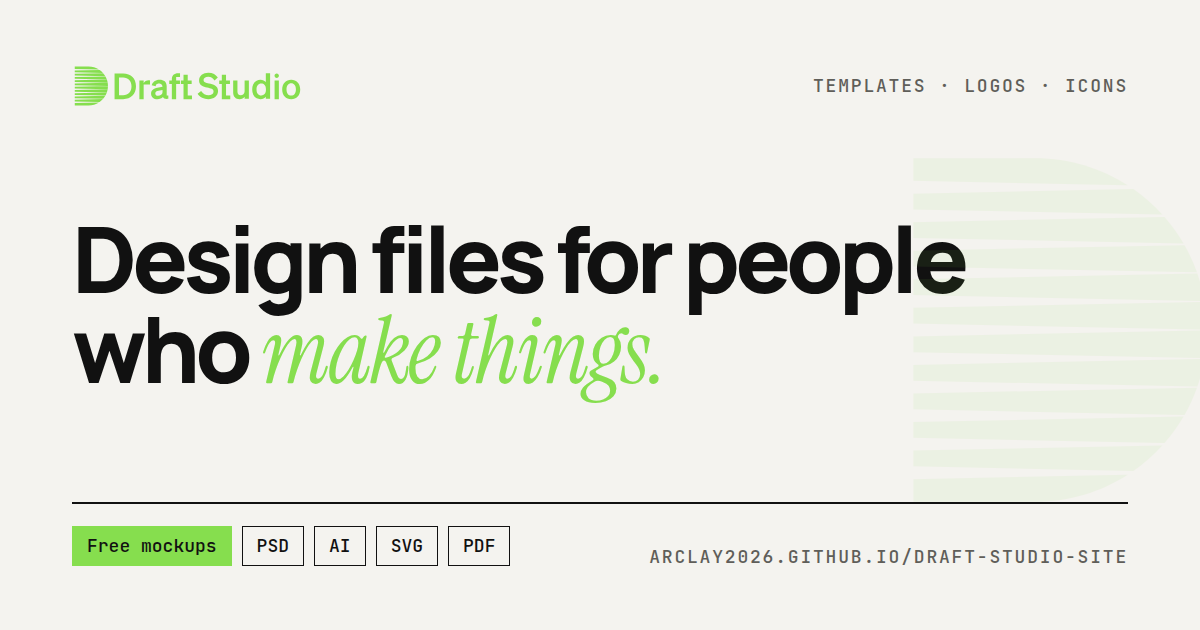
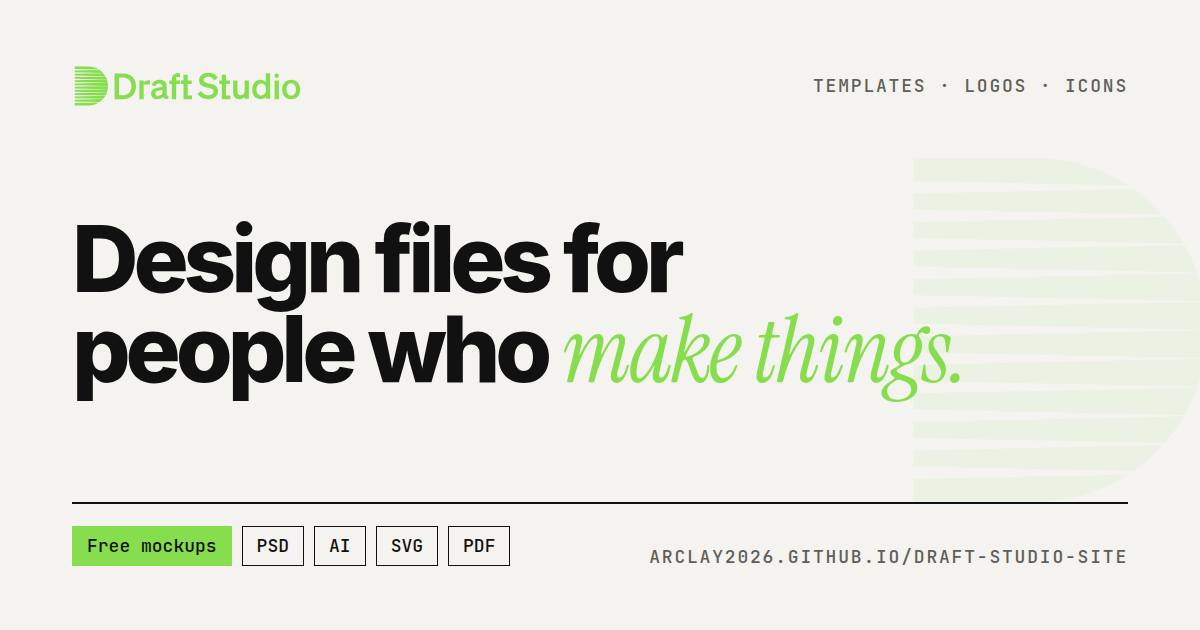
Deeper green links in light mode; switch the type to Inter
- light theme: green text and links use #2e7a14 (4.8:1 on paper) instead
  of #86de4e (1.5:1); fills, underlines and dark mode keep #86de4e
- Inter replaces Manrope as the sans-serif across the site (Google Fonts
  link on every page, --f-sans, footer credit, README, share image)

Claude-Session: https://claude.ai/code/session_019HhhZ4dCFMmcVzfwBYgkR3

Changed region(s): [[0.0617, 0.3317, 0.8017, 0.6333], [0.0617, 0.3317, 0.0925, 0.3619]]

diff --git a/templates.html b/templates.html
@@ -21,8 +21,8 @@
 <link rel="icon" type="image/svg+xml" href="assets/favicon.svg">
 <link rel="preconnect" href="https://fonts.googleapis.com">
 <link rel="preconnect" href="https://fonts.gstatic.com" crossorigin>
-<link href="https://fonts.googleapis.com/css2?family=Manrope:wght@400;500;600;700;800&family=Instrument+Serif:ital@0;1&family=JetBrains+Mono:wght@400;500&display=swap" rel="stylesheet">
-<link rel="stylesheet" href="css/archive.css?v=1e523c5f36">
+<link href="https://fonts.googleapis.com/css2?family=Inter:wght@400;500;600;700;800&family=Instrument+Serif:ital@0;1&family=JetBrains+Mono:wght@400;500&display=swap" rel="stylesheet">
+<link rel="stylesheet" href="css/archive.css?v=4e809b5376">
 </head>
 <body data-page="browse" data-type="template">
 <a class="skip" href="#main">Skip to content</a>
@@ -69,7 +69,7 @@
     <div><p class="label">Find</p><a href="#" data-open-search>Search the archive</a><a href="#" data-open-index>Browse the index</a></div>
   </div>
   <p class="word" aria-hidden="true">Draft Studio<span class="dot">.</span></p>
-  <div class="colophon-base"><span class="label">© <span data-year></span> Draft Studio. Free to use under the licence above.</span><span class="label">Set in Manrope, Instrument Serif &amp; JetBrains Mono</span></div>
+  <div class="colophon-base"><span class="label">© <span data-year></span> Draft Studio. Free to use under the licence above.</span><span class="label">Set in Inter, Instrument Serif &amp; JetBrains Mono</span></div>
 </footer>
 
 <nav class="dock" aria-label="Primary">

diff --git a/logos.html b/logos.html
@@ -21,8 +21,8 @@
 <link rel="icon" type="image/svg+xml" href="assets/favicon.svg">
 <link rel="preconnect" href="https://fonts.googleapis.com">
 <link rel="preconnect" href="https://fonts.gstatic.com" crossorigin>
-<link href="https://fonts.googleapis.com/css2?family=Manrope:wght@400;500;600;700;800&family=Instrument+Serif:ital@0;1&family=JetBrains+Mono:wght@400;500&display=swap" rel="stylesheet">
-<link rel="stylesheet" href="css/archive.css?v=1e523c5f36">
+<link href="https://fonts.googleapis.com/css2?family=Inter:wght@400;500;600;700;800&family=Instrument+Serif:ital@0;1&family=JetBrains+Mono:wght@400;500&display=swap" rel="stylesheet">
+<link rel="stylesheet" href="css/archive.css?v=4e809b5376">
 </head>
 <body data-page="browse" data-type="logo">
 <a class="skip" href="#main">Skip to content</a>
@@ -69,7 +69,7 @@
     <div><p class="label">Find</p><a href="#" data-open-search>Search the archive</a><a href="#" data-open-index>Browse the index</a></div>
   </div>
   <p class="word" aria-hidden="true">Draft Studio<span class="dot">.</span></p>
-  <div class="colophon-base"><span class="label">© <span data-year></span> Draft Studio. Free to use under the licence above.</span><span class="label">Set in Manrope, Instrument Serif &amp; JetBrains Mono</span></div>
+  <div class="colophon-base"><span class="label">© <span data-year></span> Draft Studio. Free to use under the licence above.</span><span class="label">Set in Inter, Instrument Serif &amp; JetBrains Mono</span></div>
 </footer>
 
 <nav class="dock" aria-label="Primary">

diff --git a/about.html b/about.html
@@ -21,8 +21,8 @@
 <link rel="icon" type="image/svg+xml" href="assets/favicon.svg">
 <link rel="preconnect" href="https://fonts.googleapis.com">
 <link rel="preconnect" href="https://fonts.gstatic.com" crossorigin>
-<link href="https://fonts.googleapis.com/css2?family=Manrope:wght@400;500;600;700;800&family=Instrument+Serif:ital@0;1&family=JetBrains+Mono:wght@400;500&display=swap" rel="stylesheet">
-<link rel="stylesheet" href="css/archive.css?v=1e523c5f36">
+<link href="https://fonts.googleapis.com/css2?family=Inter:wght@400;500;600;700;800&family=Instrument+Serif:ital@0;1&family=JetBrains+Mono:wght@400;500&display=swap" rel="stylesheet">
+<link rel="stylesheet" href="css/archive.css?v=4e809b5376">
 </head>
 <body data-page="about">
 <a class="skip" href="#main">Skip to content</a>
@@ -119,7 +119,7 @@
     <div><p class="label">Find</p><a href="#" data-open-search>Search the archive</a><a href="#" data-open-index>Browse the index</a></div>
   </div>
   <p class="word" aria-hidden="true">Draft Studio<span class="dot">.</span></p>
-  <div class="colophon-base"><span class="label">© <span data-year></span> Draft Studio. Free to use under the licence above.</span><span class="label">Set in Manrope, Instrument Serif &amp; JetBrains Mono</span></div>
+  <div class="colophon-base"><span class="label">© <span data-year></span> Draft Studio. Free to use under the licence above.</span><span class="label">Set in Inter, Instrument Serif &amp; JetBrains Mono</span></div>
 </footer>
 
 <nav class="dock" aria-label="Primary">

diff --git a/index.html b/index.html
@@ -21,8 +21,8 @@
 <link rel="icon" type="image/svg+xml" href="assets/favicon.svg">
 <link rel="preconnect" href="https://fonts.googleapis.com">
 <link rel="preconnect" href="https://fonts.gstatic.com" crossorigin>
-<link href="https://fonts.googleapis.com/css2?family=Manrope:wght@400;500;600;700;800&family=Instrument+Serif:ital@0;1&family=JetBrains+Mono:wght@400;500&display=swap" rel="stylesheet">
-<link rel="stylesheet" href="css/archive.css?v=1e523c5f36">
+<link href="https://fonts.googleapis.com/css2?family=Inter:wght@400;500;600;700;800&family=Instrument+Serif:ital@0;1&family=JetBrains+Mono:wght@400;500&display=swap" rel="stylesheet">
+<link rel="stylesheet" href="css/archive.css?v=4e809b5376">
 </head>
 <body data-page="home">
 <a class="skip" href="#main">Skip to content</a>
@@ -122,7 +122,7 @@
     <div><p class="label">Find</p><a href="#" data-open-search>Search the archive</a><a href="#" data-open-index>Browse the index</a></div>
   </div>
   <p class="word" aria-hidden="true">Draft Studio<span class="dot">.</span></p>
-  <div class="colophon-base"><span class="label">© <span data-year></span> Draft Studio. Free to use under the licence above.</span><span class="label">Set in Manrope, Instrument Serif &amp; JetBrains Mono</span></div>
+  <div class="colophon-base"><span class="label">© <span data-year></span> Draft Studio. Free to use under the licence above.</span><span class="label">Set in Inter, Instrument Serif &amp; JetBrains Mono</span></div>
 </footer>
 
 <nav class="dock" aria-label="Primary">

diff --git a/icons.html b/icons.html
@@ -21,8 +21,8 @@
 <link rel="icon" type="image/svg+xml" href="assets/favicon.svg">
 <link rel="preconnect" href="https://fonts.googleapis.com">
 <link rel="preconnect" href="https://fonts.gstatic.com" crossorigin>
-<link href="https://fonts.googleapis.com/css2?family=Manrope:wght@400;500;600;700;800&family=Instrument+Serif:ital@0;1&family=JetBrains+Mono:wght@400;500&display=swap" rel="stylesheet">
-<link rel="stylesheet" href="css/archive.css?v=1e523c5f36">
+<link href="https://fonts.googleapis.com/css2?family=Inter:wght@400;500;600;700;800&family=Instrument+Serif:ital@0;1&family=JetBrains+Mono:wght@400;500&display=swap" rel="stylesheet">
+<link rel="stylesheet" href="css/archive.css?v=4e809b5376">
 </head>
 <body data-page="icons">
 <a class="skip" href="#main">Skip to content</a>
@@ -86,7 +86,7 @@
     <div><p class="label">Find</p><a href="#" data-open-search>Search the archive</a><a href="#" data-open-index>Browse the index</a></div>
   </div>
   <p class="word" aria-hidden="true">Draft Studio<span class="dot">.</span></p>
-  <div class="colophon-base"><span class="label">© <span data-year></span> Draft Studio. Free to use under the licence above.</span><span class="label">Set in Manrope, Instrument Serif &amp; JetBrains Mono</span></div>
+  <div class="colophon-base"><span class="label">© <span data-year></span> Draft Studio. Free to use under the licence above.</span><span class="label">Set in Inter, Instrument Serif &amp; JetBrains Mono</span></div>
 </footer>
 
 <nav class="dock" aria-label="Primary">

diff --git a/item.html b/item.html
@@ -21,8 +21,8 @@
 <link rel="icon" type="image/svg+xml" href="assets/favicon.svg">
 <link rel="preconnect" href="https://fonts.googleapis.com">
 <link rel="preconnect" href="https://fonts.gstatic.com" crossorigin>
-<link href="https://fonts.googleapis.com/css2?family=Manrope:wght@400;500;600;700;800&family=Instrument+Serif:ital@0;1&family=JetBrains+Mono:wght@400;500&display=swap" rel="stylesheet">
-<link rel="stylesheet" href="css/archive.css?v=1e523c5f36">
+<link href="https://fonts.googleapis.com/css2?family=Inter:wght@400;500;600;700;800&family=Instrument+Serif:ital@0;1&family=JetBrains+Mono:wght@400;500&display=swap" rel="stylesheet">
+<link rel="stylesheet" href="css/archive.css?v=4e809b5376">
 </head>
 <body data-page="item">
 <a class="skip" href="#main">Skip to content</a>
@@ -49,7 +49,7 @@
     <div><p class="label">Find</p><a href="#" data-open-search>Search the archive</a><a href="#" data-open-index>Browse the index</a></div>
   </div>
   <p class="word" aria-hidden="true">Draft Studio<span class="dot">.</span></p>
-  <div class="colophon-base"><span class="label">© <span data-year></span> Draft Studio. Free to use under the licence above.</span><span class="label">Set in Manrope, Instrument Serif &amp; JetBrains Mono</span></div>
+  <div class="colophon-base"><span class="label">© <span data-year></span> Draft Studio. Free to use under the licence above.</span><span class="label">Set in Inter, Instrument Serif &amp; JetBrains Mono</span></div>
 </footer>
 
 <nav class="dock" aria-label="Primary">

diff --git a/css/archive.css b/css/archive.css
@@ -44,14 +44,14 @@
   --rule: rgba(17, 17, 17, .16);
   --rule-strong: rgba(17, 17, 17, .5);    /* softer lines; still 3.5:1 so fields and buttons stay visible */
   --signal: #86de4e;               /* fills; black text 11.3:1 */
-  --signal-ink: #86de4e;           /* text/links on the page background */
+  --signal-ink: #2e7a14;           /* deeper green for text/links on paper: 4.8:1 */
   --on-signal: #111111;
   --dock-bg: #111111;
   --dock-fg: #f4f3ef;
   --shadow-art: 0 1px 0 rgba(0, 0, 0, .04), 0 22px 40px -24px rgba(0, 0, 0, .45);
 
   /* type families */
-  --f-sans: "Manrope", system-ui, sans-serif;
+  --f-sans: "Inter", system-ui, sans-serif;
   --f-serif: "Instrument Serif", "Times New Roman", serif;
   --f-mono: "JetBrains Mono", ui-monospace, SFMono-Regular, Menlo, monospace;
 
@@ -98,7 +98,7 @@
   --mute: #a3a19b;
   --rule: rgba(244, 243, 239, .16);
   --rule-strong: rgba(244, 243, 239, .4);  /* softer lines; still 3.5:1 on ink */
-  --signal-ink: #86de4e;           /* brand blue in both themes */
+  --signal-ink: #86de4e;           /* bright green on ink: 11.3:1 */
   --dock-bg: #f4f3ef;
   --dock-fg: #111111;
   --shadow-art: 0 1px 0 rgba(0, 0, 0, .2), 0 22px 40px -22px rgba(0, 0, 0, .9);

diff --git a/README.md b/README.md
@@ -32,7 +32,7 @@ All tokens live at the top of `css/archive.css`:
 
 - **Colour:** ink `#111111`, paper `#f4f3ef`, green `#86de4e` as the only signal colour.
   Dark mode swaps ink and paper and uses a lighter blue for text so it stays readable.
-- **Type:** Manrope (brand), Instrument Serif italic (contrast), JetBrains Mono (metadata).
+- **Type:** Inter (brand), Instrument Serif italic (contrast), JetBrains Mono (metadata).
   A fluid scale (`--fs-label` … `--fs-mega`) grows smoothly from phone to desktop; big headlines
   scale to their container, so they never run off the screen. Nothing is smaller than 12px.
 - **Spacing:** a 4px scale (`--s1` … `--s9`) plus `--section` for the gap between sections.
@@ -74,7 +74,7 @@ page so visitors' browsers load the new files instead of an old saved copy.
 ## Branding
 
 - Colours: `#86de4e` (green), `#f4f3ef` (paper), `#111111` (ink), set at the top of `css/archive.css`.
-- Font: Manrope (Google Fonts).
+- Font: Inter (Google Fonts).
 - Original logo upload: `assets/brand/draft-studio-logo-original.svg`. The files below are cut from it.
 - Header logo: `assets/logo.svg` (light background) and `assets/logo-dark.svg` (dark mode).
 - 3D hero logo: `assets/logo-mark.svg`, the logo symbol on its own. The site
